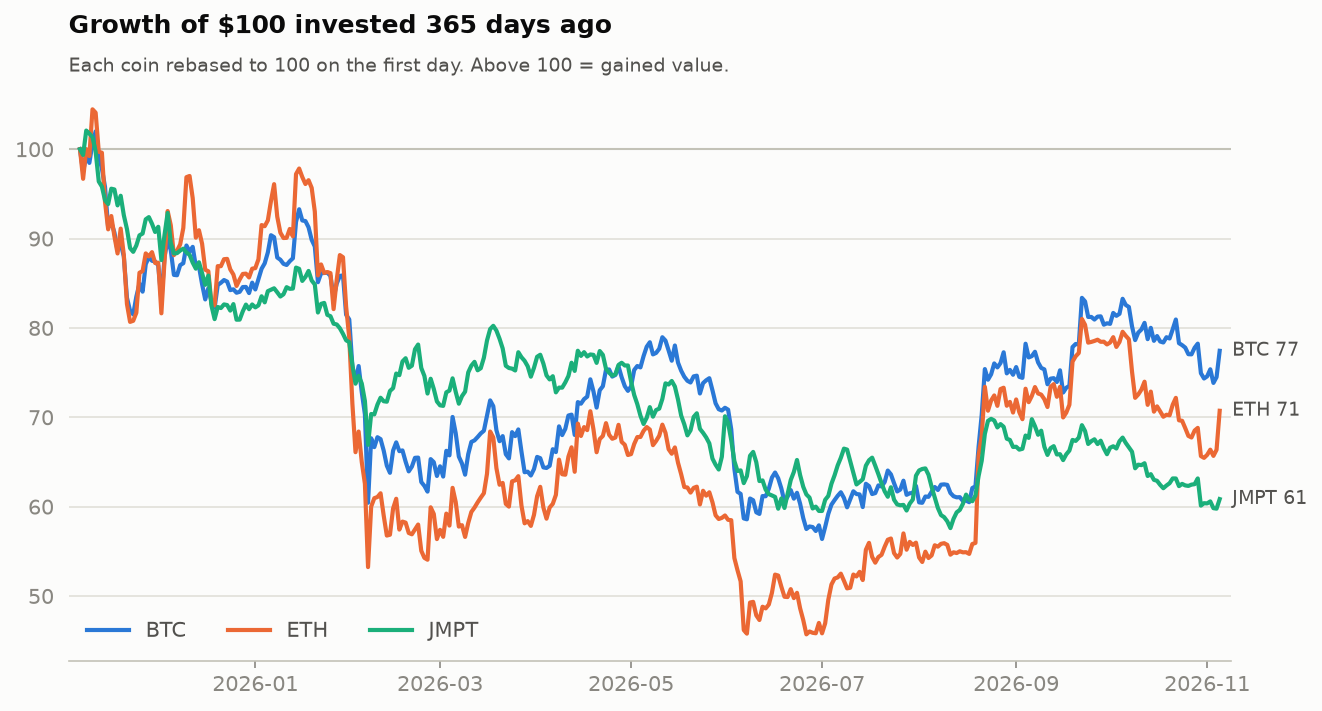
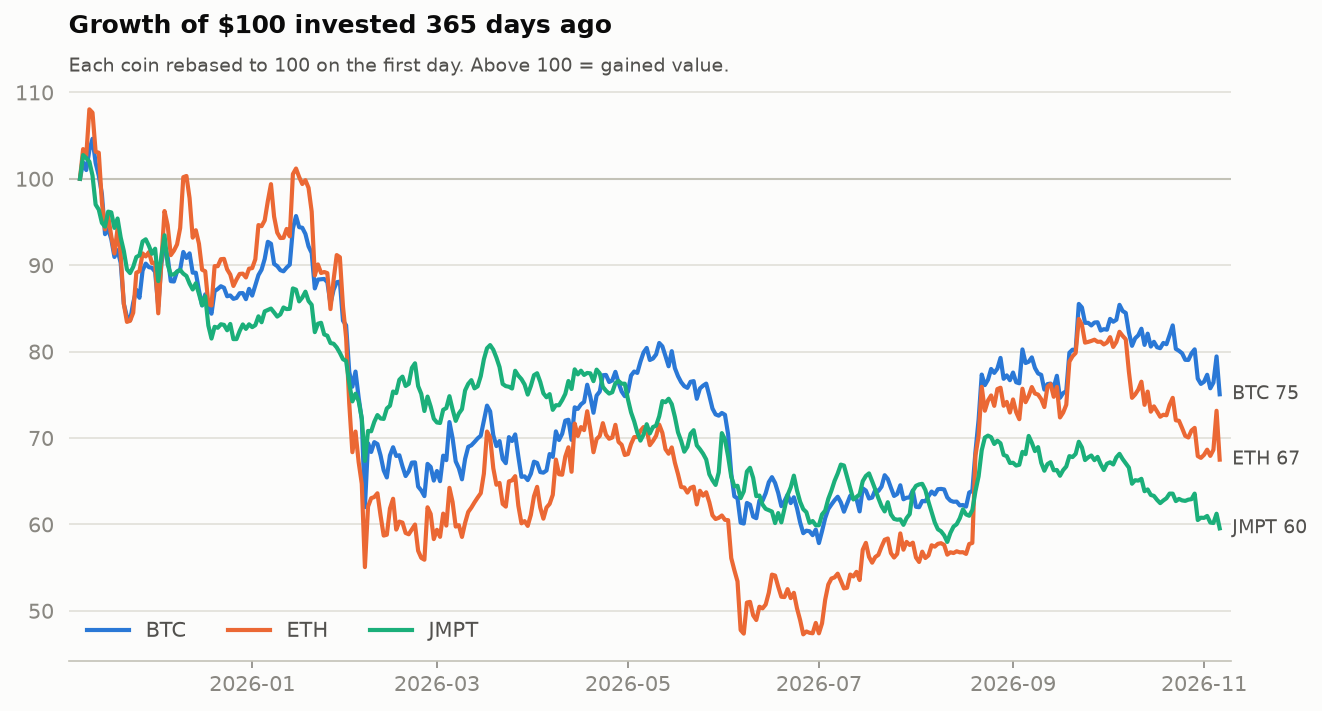
data: market update 2026-11-06

diff --git a/README.md b/README.md
@@ -9,13 +9,13 @@ The project compares two of the largest cryptocurrencies with a small-cap token:
 ## Latest stats
 
 <!-- STATS:START -->
-_Snapshot as of **2026-11-05 00:00 UTC**. Updated automatically every day._
+_Snapshot as of **2026-11-06 00:00 UTC**. Updated automatically every day._
 
 | Coin | Price | 1 day | 7 days | 30 days | 1 year | Volatility (30d) | Market cap |
 |:--|--:|--:|--:|--:|--:|--:|--:|
-| **BTC** Bitcoin | $80,443 | ▲ +4.0% | ▼ -1.0% | ▼ -6.2% | ▼ -20.7% | 32% | $1.62T |
-| **ETH** Ethereum | $2,423 | ▲ +6.6% | ▲ +2.8% | ▼ -10.6% | ▼ -26.2% | 44% | $296.07B |
-| **JMPT** JumpToken | $0.5218 | ▲ +1.8% | ▼ -3.7% | ▼ -9.4% | ▼ -38.2% | 24% | $7.70M |
+| **BTC** Bitcoin | $76,006 | ▼ -5.5% | ▼ -2.4% | ▼ -11.1% | ▼ -26.8% | 37% | $1.53T |
+| **ETH** Ethereum | $2,236 | ▼ -7.7% | ▼ -0.6% | ▼ -17.1% | ▼ -34.7% | 51% | $273.19B |
+| **JMPT** JumpToken | $0.5073 | ▼ -2.8% | ▼ -1.6% | ▼ -11.2% | ▼ -40.8% | 26% | $7.49M |
 <!-- STATS:END -->
 
 ## Charts
